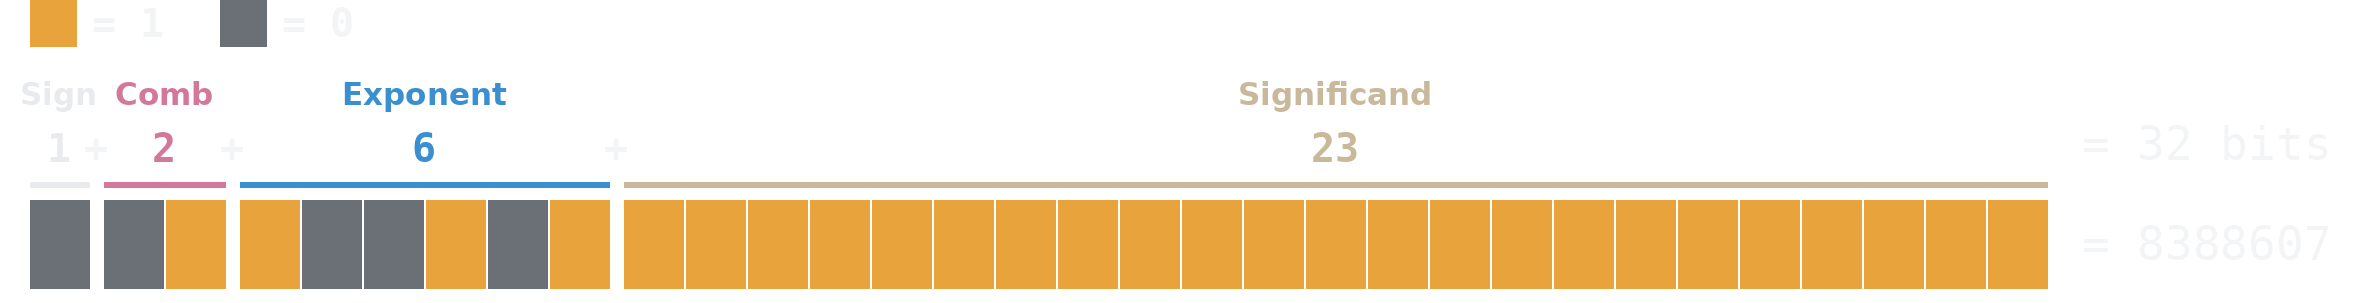
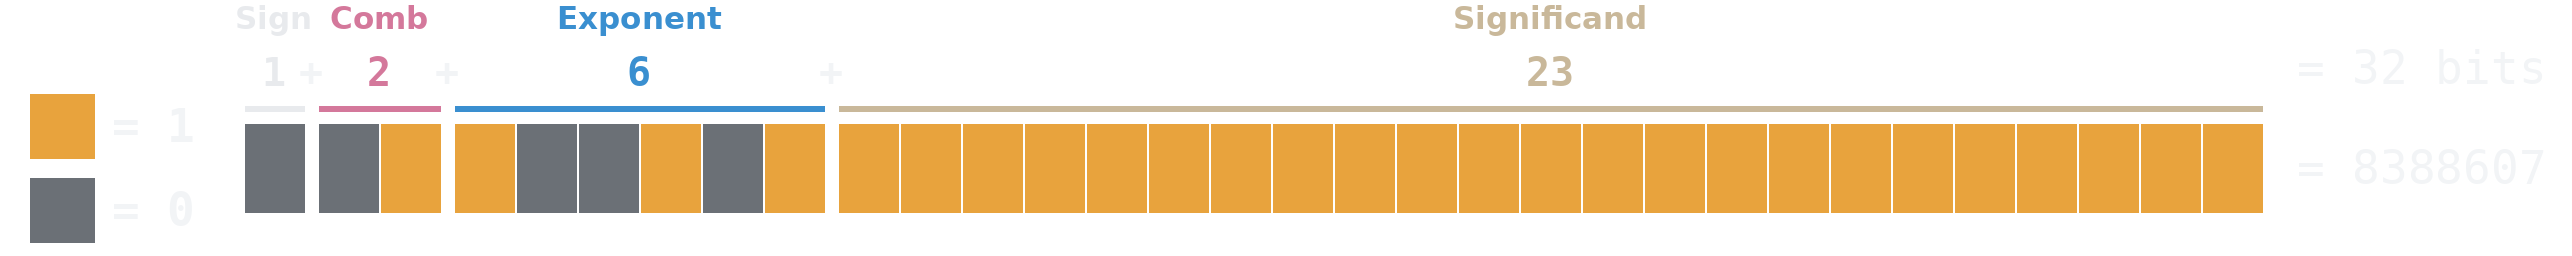
Update images again

diff --git a/cppcon/img/bitstrip.py b/cppcon/img/bitstrip.py
@@ -25,9 +25,12 @@ from PIL import Image, ImageDraw, ImageFont
 FD = "/usr/share/fonts/truetype/dejavu"
 OUT = "/mnt/user-data/outputs/img"
 
-LEFT, CELL_W, CELL_H, CELL_GAP, FIELD_GAP = 30, 60, 89, 2, 14
+MARGIN, GUTTER = 30, 215
+LEFT = MARGIN + GUTTER
+CELL_W, CELL_H, CELL_GAP, FIELD_GAP = 60, 89, 2, 14
 RIGHT_PAD, RIGHT_OFF = 310, 35
-RULE_H, SWATCH, GHOST_W = 6, 46, 5
+RULE_H, GHOST_W = 6, 5
+SWATCH, SWATCH_GAP = 64, 20
 CAP_H, CAP_GAP = 56, 34
 
 TEXT = (242, 244, 246)
@@ -42,7 +45,7 @@ F_NAME = ImageFont.truetype(f"{FD}/DejaVuSans-Bold.ttf", 31)
 F_GHOST = ImageFont.truetype(f"{FD}/DejaVuSans-Bold.ttf", 26)
 F_SIZE = ImageFont.truetype(f"{FD}/DejaVuSansMono-Bold.ttf", 40)
 F_RIGHT = ImageFont.truetype(f"{FD}/DejaVuSansMono.ttf", 46)
-F_LEGEND = ImageFont.truetype(f"{FD}/DejaVuSansMono-Bold.ttf", 40)
+F_LEGEND = ImageFont.truetype(f"{FD}/DejaVuSansMono-Bold.ttf", 46)
 F_CAP = ImageFont.truetype(f"{FD}/DejaVuSans-Bold.ttf", 38)
 
 FLOAT32 = [(1, "Sign", SIGN), (8, "Exponent", EXPO), (23, "Significand", SIGD)]
@@ -66,9 +69,6 @@ def draw(fname, word, fields, value, sizes=True, legend=True, implied=None):
     ghost = implied or ""
 
     y = 0
-    y_legend = y
-    if legend:
-        y += SWATCH + 30
     y_name = y
     y += 48
     y_size = y
@@ -77,7 +77,11 @@ def draw(fname, word, fields, value, sizes=True, legend=True, implied=None):
     y_rule = y
     y += RULE_H + 12
     y_cell = y
-    height = y_cell + CELL_H + 14
+    # the legend is a vertical key in the left gutter, centred on the cells
+    key_h = 2 * SWATCH + SWATCH_GAP
+    y_key = y_cell + (CELL_H - key_h) // 2
+    overhang = max(0, y_key + key_h - (y_cell + CELL_H))
+    height = y_cell + CELL_H + (overhang + 14 if legend else 14)
 
     # first pass: x extents, inserting the ghost run ahead of the last field
     cols, gaps, x, ghost_x = [], [], LEFT, None
@@ -96,13 +100,12 @@ def draw(fname, word, fields, value, sizes=True, legend=True, implied=None):
     d = ImageDraw.Draw(im)
 
     if legend:
-        lx = LEFT
+        ky = y_key
         for swatch, t in ((ONE, "1"), (ZERO, "0")):
-            d.rectangle([lx, y_legend, lx + SWATCH, y_legend + SWATCH],
-                        fill=swatch)
-            d.text((lx + SWATCH + 16, y_legend + SWATCH // 2), f"= {t}",
+            d.rectangle([MARGIN, ky, MARGIN + SWATCH, ky + SWATCH], fill=swatch)
+            d.text((MARGIN + SWATCH + 18, ky + SWATCH // 2), f"= {t}",
                    font=F_LEGEND, fill=TEXT, anchor="lm")
-            lx += 190
+            ky += SWATCH + SWATCH_GAP
 
     for (count, label, colour), (x0, x1, cx) in zip(fields, cols):
         d.text((cx, y_name), label, font=F_NAME, fill=colour, anchor="ma")
@@ -155,7 +158,7 @@ def stack(fname, items):
     d = ImageDraw.Draw(out)
     y = 0
     for (cap, _), im in zip(items, imgs):
-        d.text((30, y + 8), cap, font=F_CAP, fill=TEXT)
+        d.text((MARGIN, y + 8), cap, font=F_CAP, fill=TEXT)
         out.paste(im, (0, y + CAP_H), im)
         y += CAP_H + im.height + CAP_GAP
     out.save(f"{OUT}/{fname}", "PNG")
